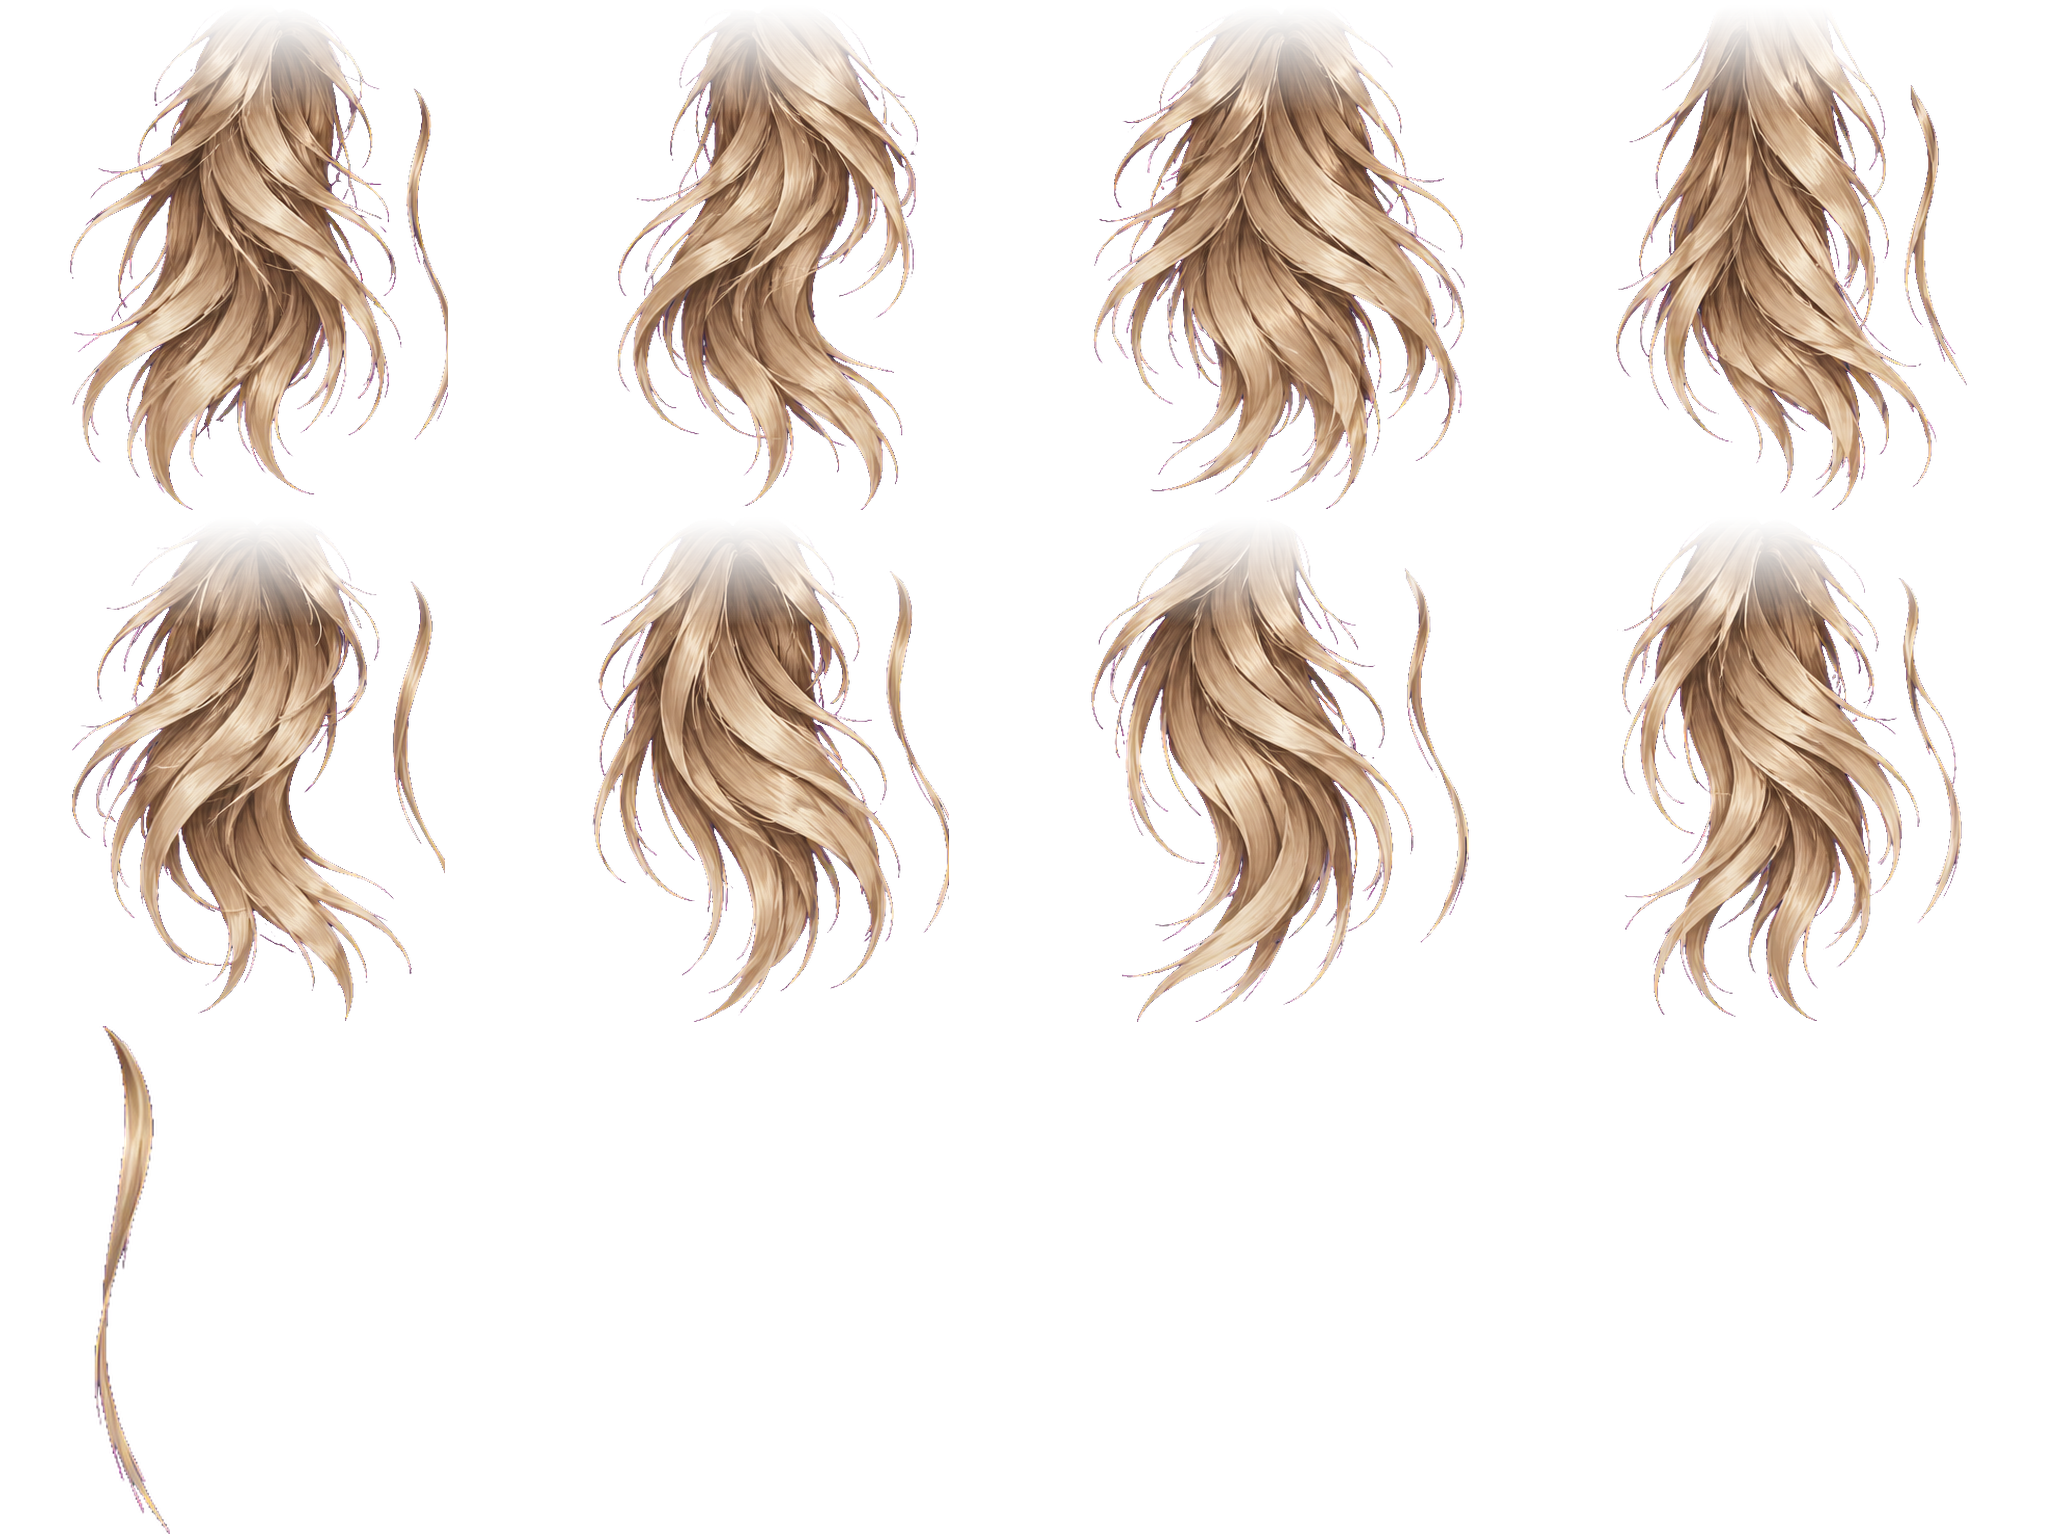
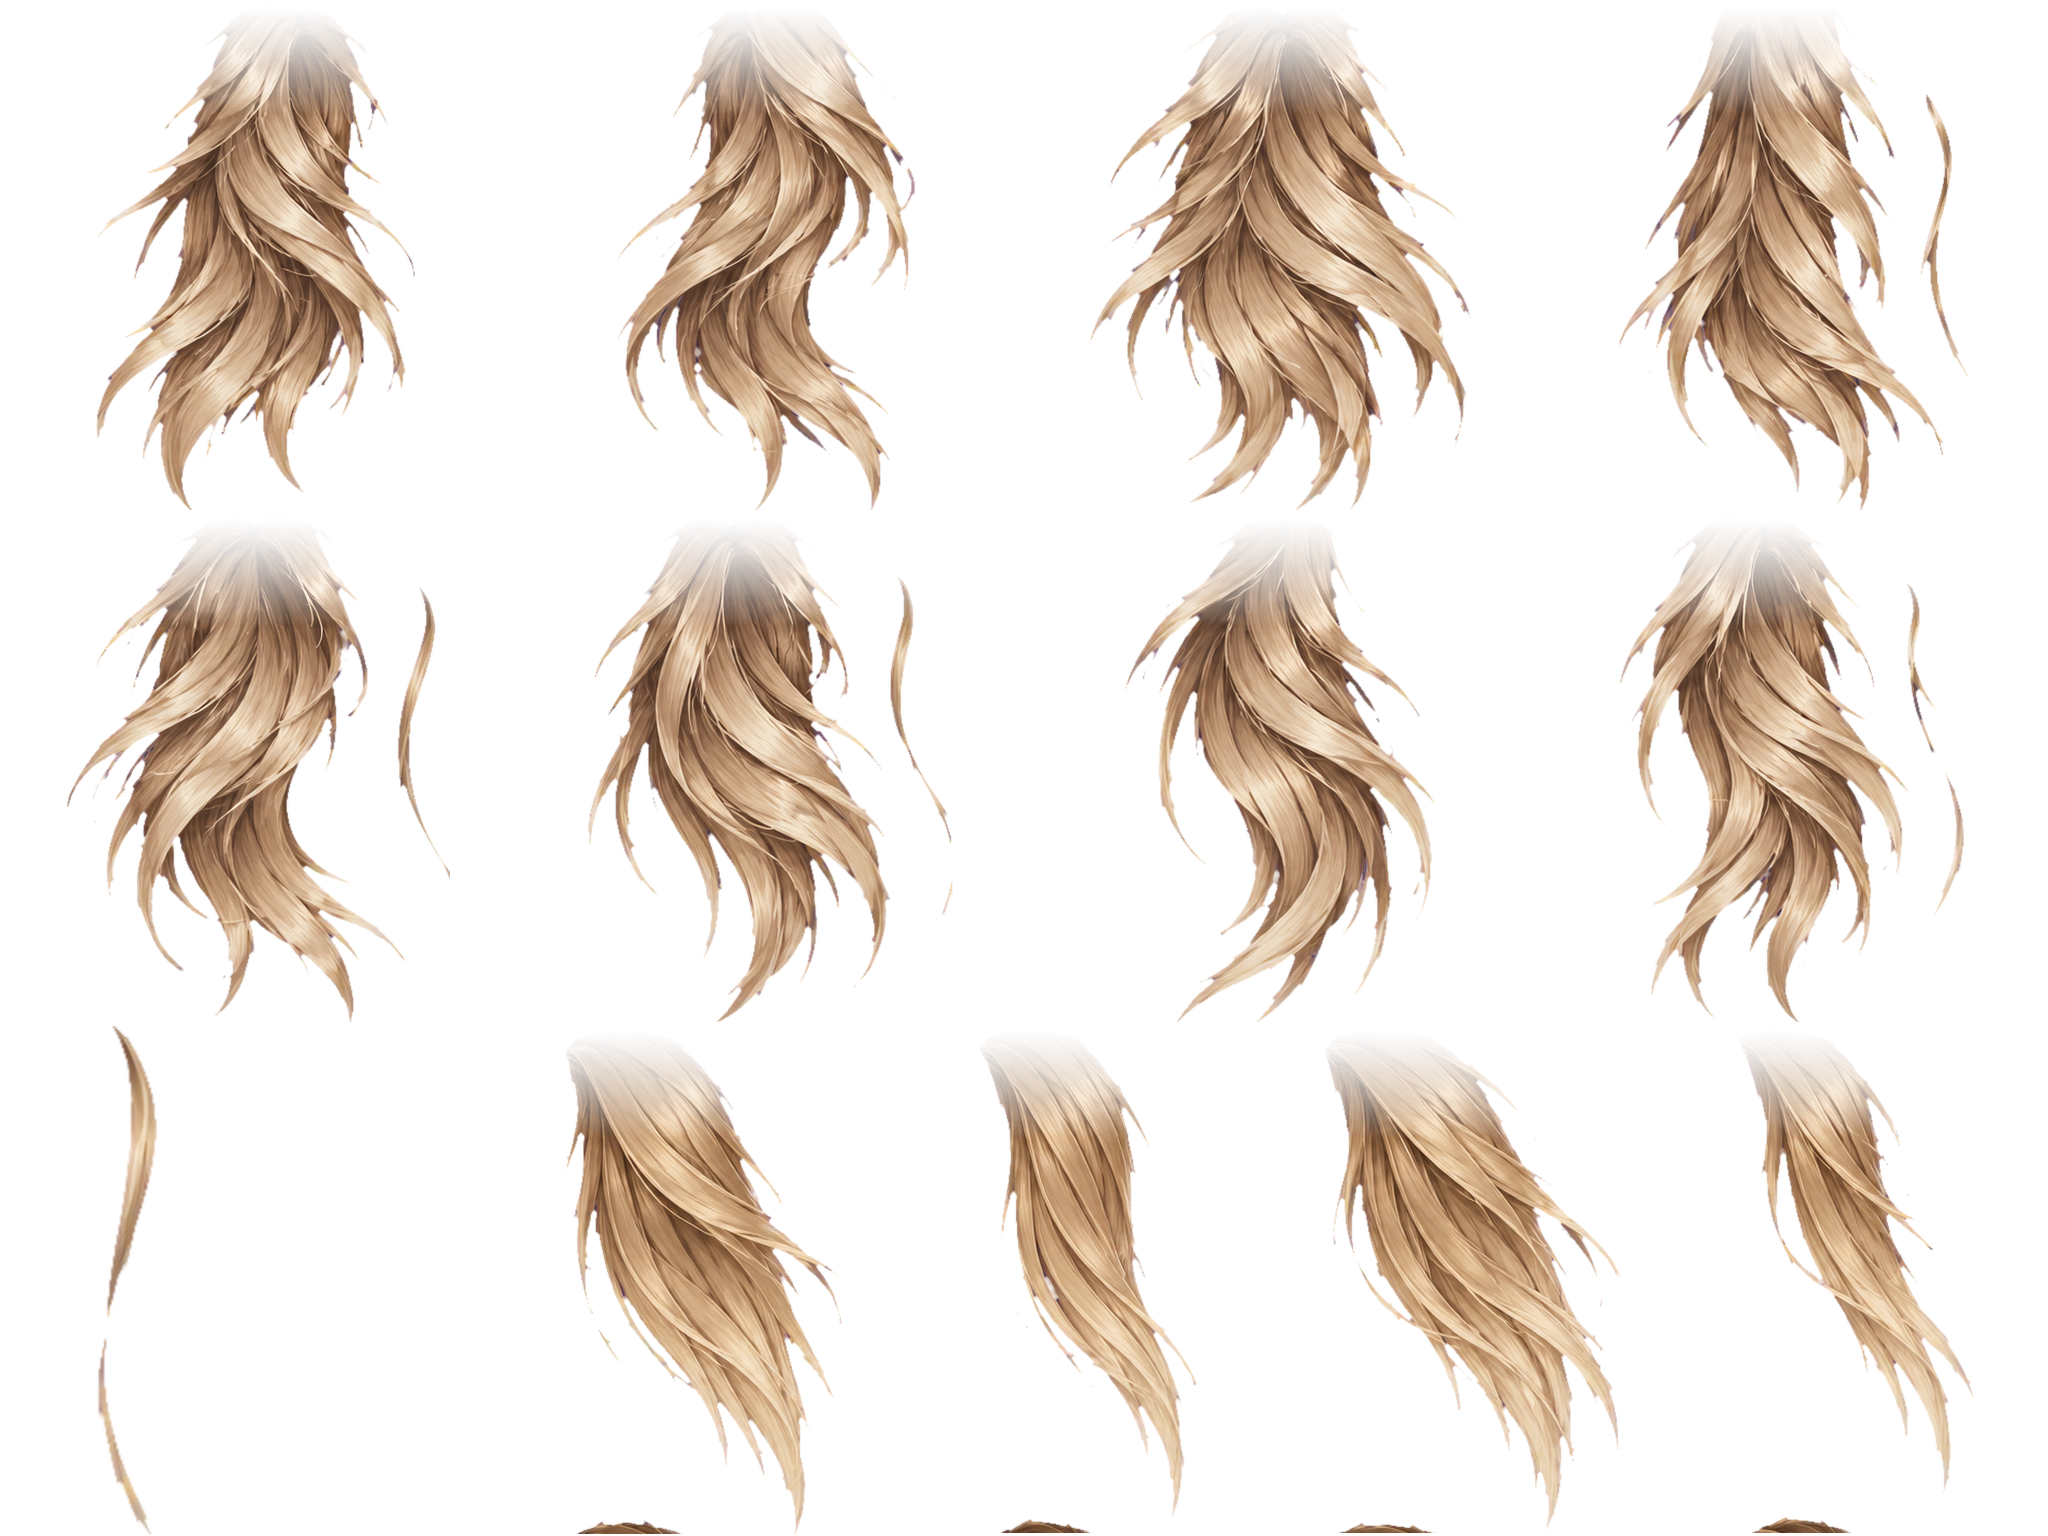
fix(arte): cabelo do arqueiro dark v3 - penteado repartido, laterais curtas, alpha limpo
Atlas com mechas lisas (topo/franja) e onduladas, alpha erodido e decontaminado, ponta e borda irregulares, 61 cartoes, 976 tris.

Claude-Session: https://claude.ai/code/session_01WC4FgazM6iEKfa9eY6QmCj

diff --git a/art-src/modelos/scripts/hair_atlas.py b/art-src/modelos/scripts/hair_atlas.py
@@ -1,60 +1,77 @@
-"""Recorta o atlas gerado (fundo azul chapado) em alpha: 8 mechas largas (celulas 512x512, 2 linhas x 4 colunas)
-e 8 fios finos (linha inferior, celulas 256x512). Grava T_ArcherDark_Hair_BC.png (2048x1536 RGBA) e hair_atlas.json (UV de cada peca)."""
+"""Atlas de cabelo com alpha a partir de imagens geradas em fundo azul chapado (cab_atlas.png: mechas onduladas; cab_atlas2.png: mechas lisas).
+Saida: T_ArcherDark_Hair_BC.png (2048x1536 RGBA) e hair_atlas.json. Celulas: locks (onduladas) 2x4 de 512x512 no topo; 1 fio fino; smooth (lisas) 4 celulas de 384x512 na linha 3.
+Decontaminacao: erode 2 px, suaviza alpha, cor das bordas vem da dilatacao do interior."""
 import numpy as np, json
-from PIL import Image
+from PIL import Image, ImageFilter
 D = r"D:\openclaude\_trabalho-claude\modelos3d\arqueiro_dark\cabeca"
-im = np.asarray(Image.open(D + r"\cab_atlas.png").convert("RGB"), np.float32)
-H, W, _ = im.shape
-blue = im[..., 2] - np.maximum(im[..., 0], im[..., 1])
-a = np.clip(1 - (blue - 60) / 90, 0, 1)
-a = np.clip((a - 0.15) / 0.85, 0, 1)
-# remove contaminacao azul na cor: onde a<1 puxa a cor para o interior (dilatacao de cores opacas)
-rgb = im.copy(); solid = a > 0.9
-for _ in range(4):
-    acc = np.zeros_like(rgb); cnt = np.zeros(a.shape, np.float32)
-    for dy in (-1, 0, 1):
-        for dx in (-1, 0, 1):
-            m = np.roll(np.roll(solid, dy, 0), dx, 1); acc += np.roll(np.roll(rgb, dy, 0), dx, 1) * m[..., None]; cnt += m
-    new = (~solid) & (cnt > 0); rgb[new] = acc[new] / cnt[new][:, None]; solid = solid | new
-# so tons de cabelo: limita o azul residual
-rgb[..., 2] = np.minimum(rgb[..., 2], np.maximum(rgb[..., 0], rgb[..., 1]) * 0.95)
-rgba = np.dstack([rgb, a * 255])
-AT = Image.new("RGBA", (2048, 1536), (0, 0, 0, 0)); meta = dict(locks=[], strands=[])
-cw, ch = W // 4, H // 2
+
+
+def proc(path):
+    im = np.asarray(Image.open(path).convert("RGB"), np.float32)
+    blue = im[..., 2] - np.maximum(im[..., 0], im[..., 1])
+    a = np.clip(1 - (blue - 60) / 90, 0, 1); a = np.clip((a - 0.15) / 0.85, 0, 1)
+    for _ in range(2):
+        a = np.minimum.reduce([a, np.roll(a, 1, 0), np.roll(a, -1, 0), np.roll(a, 1, 1), np.roll(a, -1, 1)])
+    a = np.asarray(Image.fromarray((a * 255).astype(np.uint8)).filter(ImageFilter.GaussianBlur(0.6)), np.float32) / 255
+    rgb = im.copy(); solid = a > 0.97
+    for _ in range(8):
+        acc = np.zeros_like(rgb); cnt = np.zeros(a.shape, np.float32)
+        for dy in (-1, 0, 1):
+            for dx in (-1, 0, 1):
+                m = np.roll(np.roll(solid, dy, 0), dx, 1); acc += np.roll(np.roll(rgb, dy, 0), dx, 1) * m[..., None]; cnt += m
+        new = (~solid) & (cnt > 0); rgb[new] = acc[new] / cnt[new][:, None]; solid = solid | new
+    # decontamina: onde o alpha e parcial, usa a cor do interior (dilatada) e nunca deixa azul/rosa passar do loiro
+    part = a < 0.97
+    rgb[part] = rgb[part] * 0.0 + rgb[part]
+    rgb[..., 2] = np.minimum(rgb[..., 2], np.maximum(rgb[..., 0], rgb[..., 1]) * 0.9)
+    rgb[..., 0] = np.minimum(rgb[..., 0], 255)
+    return np.dstack([rgb, a * 255])
+
+
 def segs(mask_cols, gap=10):
     idx = np.where(mask_cols)[0]; out = []; s = idx[0]; p = idx[0]
     for i in idx[1:]:
         if i - p > gap: out.append((s, p)); s = i
         p = i
     out.append((s, p)); return out
-for r in range(2):
-    for c in range(4):
-        cell = rgba[r * ch:(r + 1) * ch, c * cw:(c + 1) * cw]
-        cols = (cell[..., 3] > 100).sum(0) > 1
-        sg = segs(cols)
-        lock = max(sg, key=lambda s: (s[1] - s[0]))
-        cand = [s for s in sg if s is not lock and (cell[:, s[0]:s[1] + 1, 3] > 100).sum() > 1500]
-        strand = cand[-1] if cand else None
-        for kind, sgm in (("lock", lock), ("strand", strand)):
-            if sgm is None: continue
-            sub = cell[:, max(0, sgm[0] - 6):sgm[1] + 7]
-            rows = np.where((sub[..., 3] > 100).sum(1) > 0)[0]
-            sub = sub[rows[0]:rows[-1] + 1]
-            sub = sub.copy()
-            if kind == "lock":     # raiz com alpha em degrade: some sob a camada de cima (sem borda reta)
-                hh = sub.shape[0]; ramp = np.clip(np.arange(hh) / (hh * 0.22), 0, 1) ** 1.5
-                sub[..., 3] *= ramp[:, None]
-                sub[..., :3] = sub[..., :3] * 1.0 + 0
-            pil = Image.fromarray(sub.astype(np.uint8), "RGBA")
-            if kind == "lock":
-                cwid, chei, ox, oy = 512, 512, c * 512, r * 512
-            else:
-                cwid, chei, ox, oy = 256, 512, len(meta['strands']) * 256, 1024
-            k = min((cwid - 4) / pil.size[0], (chei - 4) / pil.size[1])
-            pil = pil.resize((max(2, int(pil.size[0] * k)), int(pil.size[1] * k)), Image.LANCZOS)
-            px = ox + (cwid - pil.size[0]) // 2; py = oy + 2
-            AT.alpha_composite(pil, (px, py))
-            meta["locks" if kind == "lock" else "strands"].append([px / 2048, py / 1536, (px + pil.size[0]) / 2048, (py + pil.size[1]) / 1536])
+
+
+def cells(rgba):
+    H, W, _ = rgba.shape; cw, ch = W // 4, H // 2; res = []
+    for r in range(2):
+        for c in range(4):
+            cell = rgba[r * ch:(r + 1) * ch, c * cw:(c + 1) * cw]
+            sg = segs((cell[..., 3] > 100).sum(0) > 1)
+            lock = max(sg, key=lambda s: s[1] - s[0])
+            cand = [s for s in sg if s is not lock and (cell[:, s[0]:s[1] + 1, 3] > 100).sum() > 1500]
+            res.append((cell, lock, cand[-1] if cand else None))
+    return res
+
+
+def crop(cell, sg, ramp):
+    sub = cell[:, max(0, sg[0] - 6):sg[1] + 7].copy()
+    rows = np.where((sub[..., 3] > 100).sum(1) > 0)[0]; sub = sub[rows[0]:rows[-1] + 1]
+    if ramp:
+        hh = sub.shape[0]; sub[..., 3] *= (np.clip(np.arange(hh) / (hh * 0.22), 0, 1) ** 1.5)[:, None]
+    return Image.fromarray(sub.astype(np.uint8), "RGBA")
+
+
+AT = Image.new("RGBA", (2048, 1536), (0, 0, 0, 0)); meta = dict(locks=[], strands=[], smooth=[])
+
+
+def place(pil, ox, oy, cwid, chei, key):
+    k = min((cwid - 4) / pil.size[0], (chei - 4) / pil.size[1])
+    pil = pil.resize((max(2, int(pil.size[0] * k)), int(pil.size[1] * k)), Image.LANCZOS)
+    px = ox + (cwid - pil.size[0]) // 2; py = oy + 2
+    AT.alpha_composite(pil, (px, py)); meta[key].append([px / 2048, py / 1536, (px + pil.size[0]) / 2048, (py + pil.size[1]) / 1536])
+
+
+for i, (cell, lock, strand) in enumerate(cells(proc(D + r"\cab_atlas.png"))):
+    place(crop(cell, lock, True), (i % 4) * 512, (i // 4) * 512, 512, 512, "locks")
+    if strand is not None and not meta["strands"]:
+        place(crop(cell, strand, False), 0, 1024, 256, 512, "strands")
+for i, (cell, lock, strand) in enumerate(cells(proc(D + r"\cab_atlas2.png"))[:4]):
+    place(crop(cell, lock, True), 512 + i * 384, 1024, 384, 512, "smooth")
 AT.save(D + r"\T_ArcherDark_Hair_BC.png"); json.dump(meta, open(D + r"\hair_atlas.json", "w"))
 bg = Image.new("RGBA", AT.size, (100, 100, 110, 255)); bg.alpha_composite(AT); bg.convert("RGB").resize((1024, 768)).save(D + r"\hair_prev.png")
-print(len(meta["locks"]), len(meta["strands"]))
+print(len(meta["locks"]), len(meta["strands"]), len(meta["smooth"]))

diff --git a/art-src/modelos/scripts/head_assemble.py b/art-src/modelos/scripts/head_assemble.py
@@ -62,59 +62,70 @@ def make_card(az_deg, el_deg, length, width, off0, off1, lat=0.0, fwd=0.0, grav=
         off = off0 + (off1 - off0) * t ** 1.4
         p = surf(p + dirv * ds, off + flare * t * t)
         pts.append(p.copy())
-    cards.append((np.array(pts), width))
+    cards.append((np.array(pts), width)); cards_side.append(1 if pts[0][0] >= 0 else -1)
 
 
 S2 = lambda x: 1 if x >= 0 else -1
 JIT = lambda: rng.uniform(-0.3, 0.3)
 ATL = json.load(open(HD + r"\hair_atlas.json"))
+cards_side = []
 meta = []   # tipo de textura por cartao: ("lock", i) ou ("strand", 0)
 def lk(kind="lock"):
     if kind == "strand": meta.append(("strand", 0)); return
     meta.append(("lock", int(rng.integers(0, len(ATL["locks"])))))
 def add(*a, kind="lock", **k):
-    make_card(*a, **k); lk(kind)
-# camada 1: base rente ao cranio
-add(0, 86, 0.11, 0.10, 0.003, 0.012, grav=0.2)
-for az0 in (0, 60, 120, 180, 240, 300):
-    az = (az0 + JIT() * 15 + 180) % 360 - 180
-    if abs(az) < 50: continue
-    add(az, 72, 0.12, 0.10, 0.003, 0.014, grav=0.2)
-for i in range(14):
-    az = -180 + (i + JIT()) * 360 / 14
-    if abs(az) < 45: continue
-    add(az, 54, 0.15, 0.10, 0.005, 0.02, grav=0.2, flare=0.004)
-# camada 2: media
-for i in range(14):
-    az = -180 + (i + JIT()) * 360 / 14
-    if abs(az) < 50: continue
-    add(az, 34, rng.uniform(0.18, 0.22), rng.uniform(0.09, 0.105), 0.01, 0.034, lat=JIT(), grav=0.2, flare=rng.uniform(0.01, 0.02))
-# camada 3: externa, pontas se afastando, ate a base do pescoco
-for i in range(12):
-    az = -180 + (i + 0.5 + JIT()) * 30
-    if abs(az) < 55: continue
-    add(az, 16, rng.uniform(0.24, 0.29), rng.uniform(0.09, 0.105), 0.016, 0.05, lat=JIT(), grav=0.3, flare=rng.uniform(0.02, 0.035))
+    make_card(*a, **k)
+    if kind == "smooth": meta.append(("smooth", int(rng.integers(0, len(ATL["smooth"])))))
+    else: lk(kind)
+# ---- v3: penteado repartido e liso. risca no centro (frente -> tras); mechas partem da risca para os lados e para tras
+for side in (-1, 1):
+    # franja: da risca na frente cai sobre a testa e varre para a tempora (acima do olho)
+    for az, el, ln, wd, lt in ((4, 62, 0.09, 0.07, 2.2), (12, 55, 0.10, 0.07, 2.4), (22, 49, 0.105, 0.07, 2.6)):
+        add(side * az, el, ln, wd, 0.005, 0.014, lat=lt * side, fwd=-0.1, grav=0.5, flare=0.0, kind="smooth")
+    # topo: da risca, cai sobre os lados do cranio ate a altura da tempora
+    for azb, el, ln in ((176, 74, 0.18), (150, 60, 0.18), (6, 78, 0.19), (40, 68, 0.19), (80, 66, 0.15), (118, 58, 0.17)):
+        az = azb if azb < 100 or azb > 140 else azb
+        azs = side * azb if azb < 140 else 180 - side * (180 - azb)
+        front = azb <= 60
+        add(azs, el, 0.12 if front else ln, 0.095, 0.004, 0.012, lat=side * (1.7 if front else 0.45), grav=0.45, flare=0.0, kind="smooth")
+    # laterais curtas (cobrem a regiao da orelha ate a tempora, nao descem ao ombro)
+    for azb, el, ln in ((66, 36, 0.10), (88, 34, 0.11), (110, 32, 0.12), (130, 28, 0.15)):
+        add(side * azb, el, ln, 0.085, 0.01, 0.03, fwd=0.1, grav=0.1, flare=0.01)
+for side in (-1, 1):
+    for azb, el, ln in ((124, 44, 0.16), (140, 38, 0.18), (156, 36, 0.18), (130, 24, 0.20), (150, 24, 0.22)):
+        add(side * azb, el, ln, 0.095, 0.01, 0.034, lat=JIT(), grav=0.2, flare=0.015)
+# base rente (cobre o couro cabeludo) so atras
+add(180, 70, 0.12, 0.10, 0.003, 0.014, grav=0.2)
+for az0 in range(-165, 166, 33):
+    if abs(az0) < 112: continue
+    add(az0 + JIT() * 8, 52, 0.15, 0.10, 0.005, 0.02, grav=0.2, flare=0.004)
+# camada media atras
+for i in range(10):
+    az = 180 - 119 - (i + JIT()) * (122 / 10)
+    az = -az if i % 2 else az
+    az = (az + 180) % 360 - 180
+add_az = [(-170 + k * 24 + JIT() * 6) for k in range(15)]
+for az in add_az:
+    if abs(az) < 118 or abs(az) > 175 and False: continue
+    add(az, 32, rng.uniform(0.18, 0.22), rng.uniform(0.09, 0.105), 0.01, 0.034, lat=JIT(), grav=0.2, flare=rng.uniform(0.01, 0.02))
+# camada externa: nuca ate a base do pescoco
+for az in [(-172 + k * 22 + JIT() * 5) for k in range(16)]:
+    if abs(az) < 120: continue
+    add(az, 14, rng.uniform(0.24, 0.29), rng.uniform(0.09, 0.105), 0.016, 0.05, lat=JIT(), grav=0.3, flare=rng.uniform(0.02, 0.035))
 for i in range(5):
-    az = (180 + (i - 2 + JIT()) * 52 + 180) % 360 - 180
+    az = (180 + (i - 2 + JIT()) * 38 + 180) % 360 - 180
     add(az, 0, rng.uniform(0.22, 0.26), rng.uniform(0.085, 0.10), 0.022, 0.058, lat=JIT(), grav=0.35, flare=0.03)
-# laterais na frente da orelha (sem cobrir o olho)
-for side in (-1, 1):
-    add(side * 74, 20, 0.16, 0.06, 0.012, 0.035, fwd=0.2, grav=0.12, flare=0.015)
-    add(side * 62, 34, 0.14, 0.062, 0.01, 0.032, fwd=0.2, grav=0.12, flare=0.012)
-# franja repartida: raiz na risca, cai lateralmente para a testa e a tempora
-for side in (-1, 1):
-    for az, el, ln, wd in ((9, 54, 0.105, 0.065), (22, 50, 0.115, 0.07), (38, 44, 0.12, 0.07)):
-        add(side * az + JIT() * 3, el, ln, wd, 0.008, 0.024, lat=1.6 * side, fwd=-0.05, grav=0.4, flare=0.012)
 # mechas soltas
-for az in (-130, -70, 70, 130, 170):
+for az in (-150, -130, 130, 150, 172):
     add(az, 14, 0.15, 0.03, 0.028, 0.045, lat=0.2 * S2(az), grav=0.25, flare=0.01, kind="strand")
 
 BULGE = 0.007
 bm = bmesh.new(); uvl = bm.loops.layers.uv.new("UVMap"); dl = bm.verts.layers.deform.new()
 for k, (pts, width) in enumerate(cards):
     kind, ci = meta[k]
-    u0, v0_, u1, v1_ = ATL["locks"][ci] if kind == "lock" else ATL["strands"][0]
-    if rng.random() < 0.5 and kind == "lock": u0, u1 = u1, u0
+    u0, v0_, u1, v1_ = ATL["locks"][ci] if kind == "lock" else (ATL["smooth"][ci] if kind == "smooth" else ATL["strands"][0])
+    if kind in ("lock",) and rng.random() < 0.5: u0, u1 = u1, u0
+    if kind == "smooth" and cards_side[k] < 0: u0, u1 = u1, u0
     npt = len(pts)
     rows = []
     for i, p in enumerate(pts):
@@ -126,7 +137,10 @@ for k, (pts, width) in enumerate(cards):
         off = 0.0
         row = []
         for j, sx in enumerate((-1, 0, 1)):
-            q = p + w * hw * sx
+            e_ = 1.0
+            if i == npt - 1: e_ = rng.uniform(0.4, 0.8) if sx != 0 else 1.0       # ponta afilada
+            elif i > 0 and sx != 0: e_ = rng.uniform(0.82, 1.08)                     # borda irregular
+            q = p + w * hw * sx * e_ 
             q = q + n * (BULGE * (1 - 0.4 * t) if sx == 0 else 0.0)
             v = bm.verts.new(Vector(q)); v[dl][0] = 1.0
             row.append(v)
